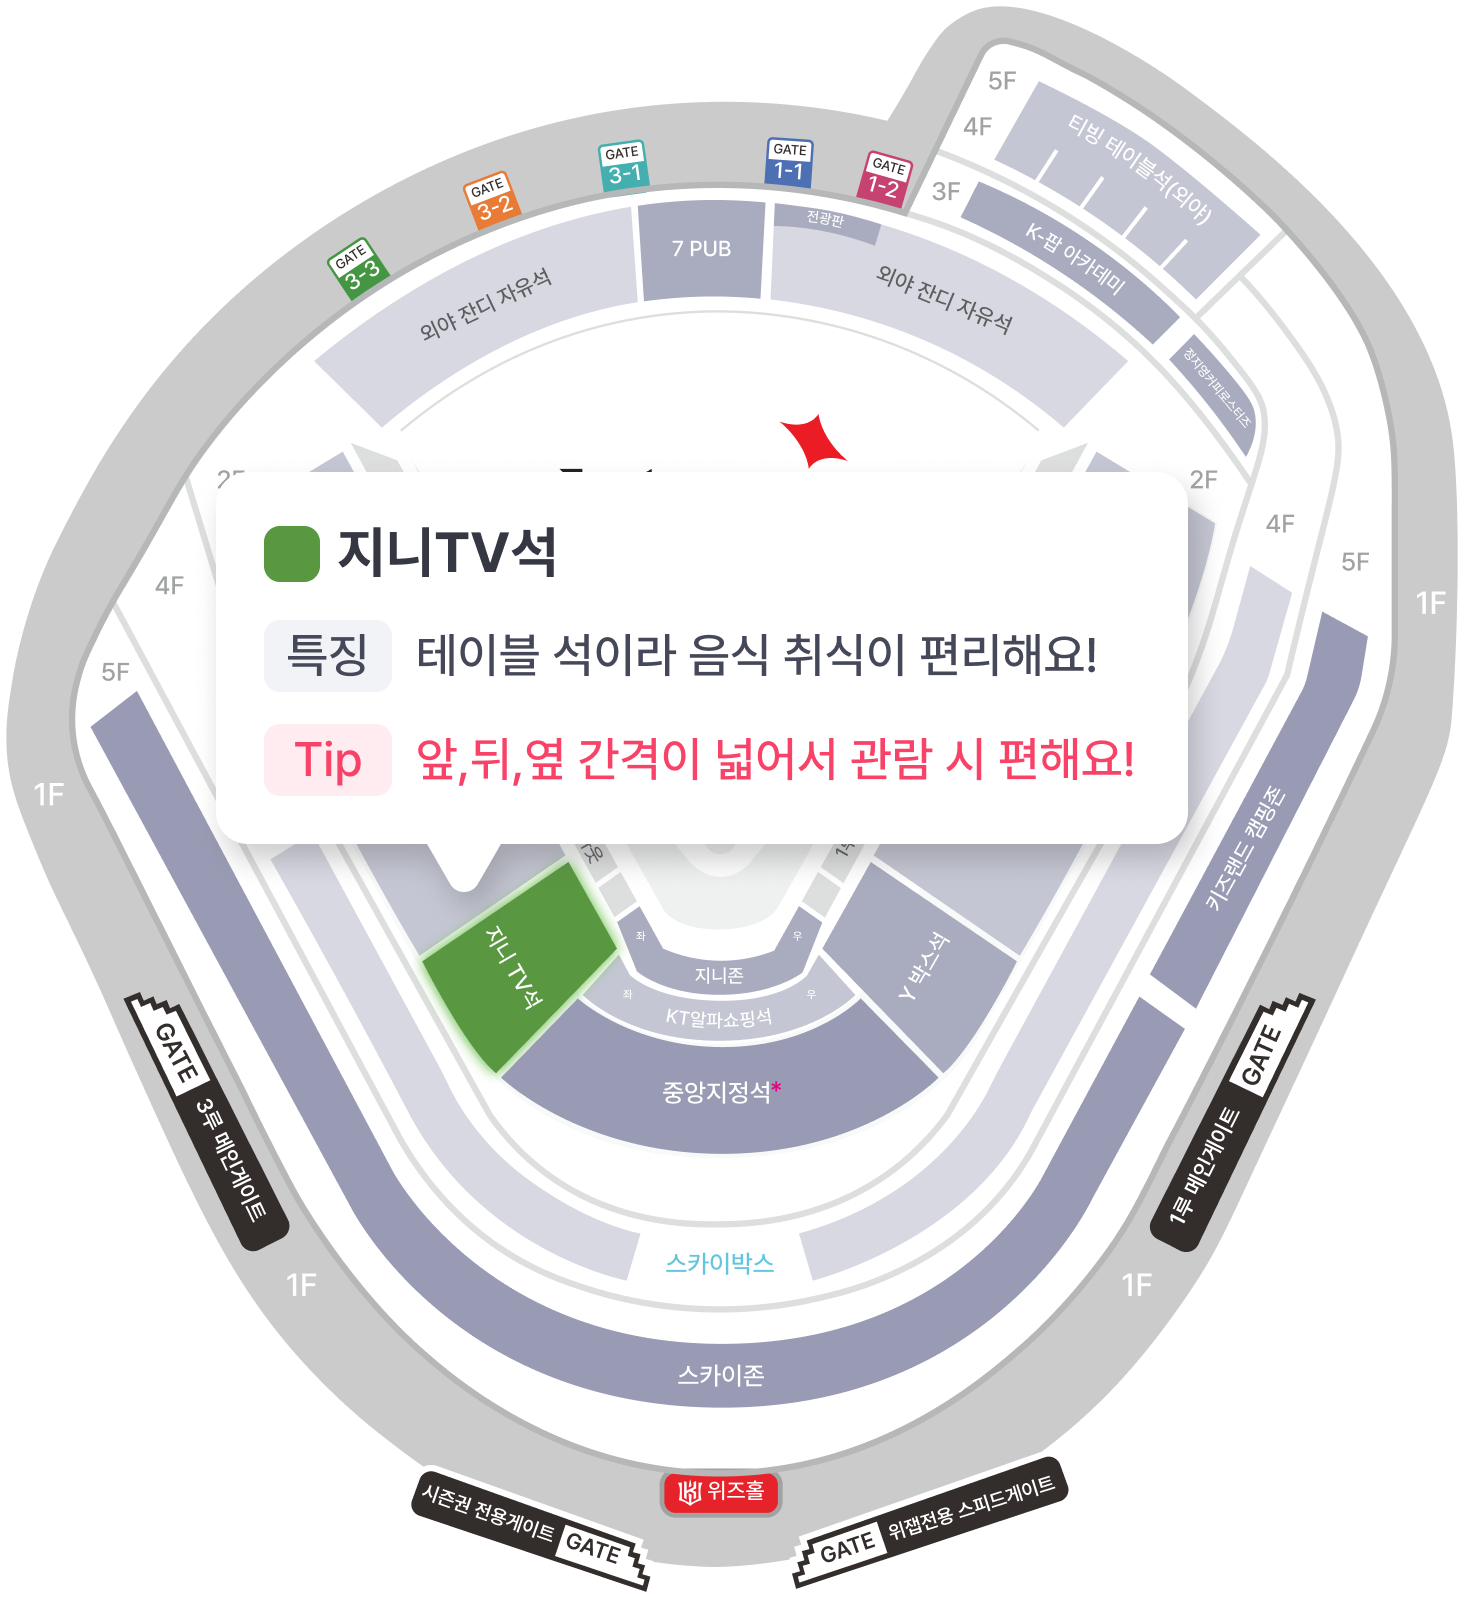
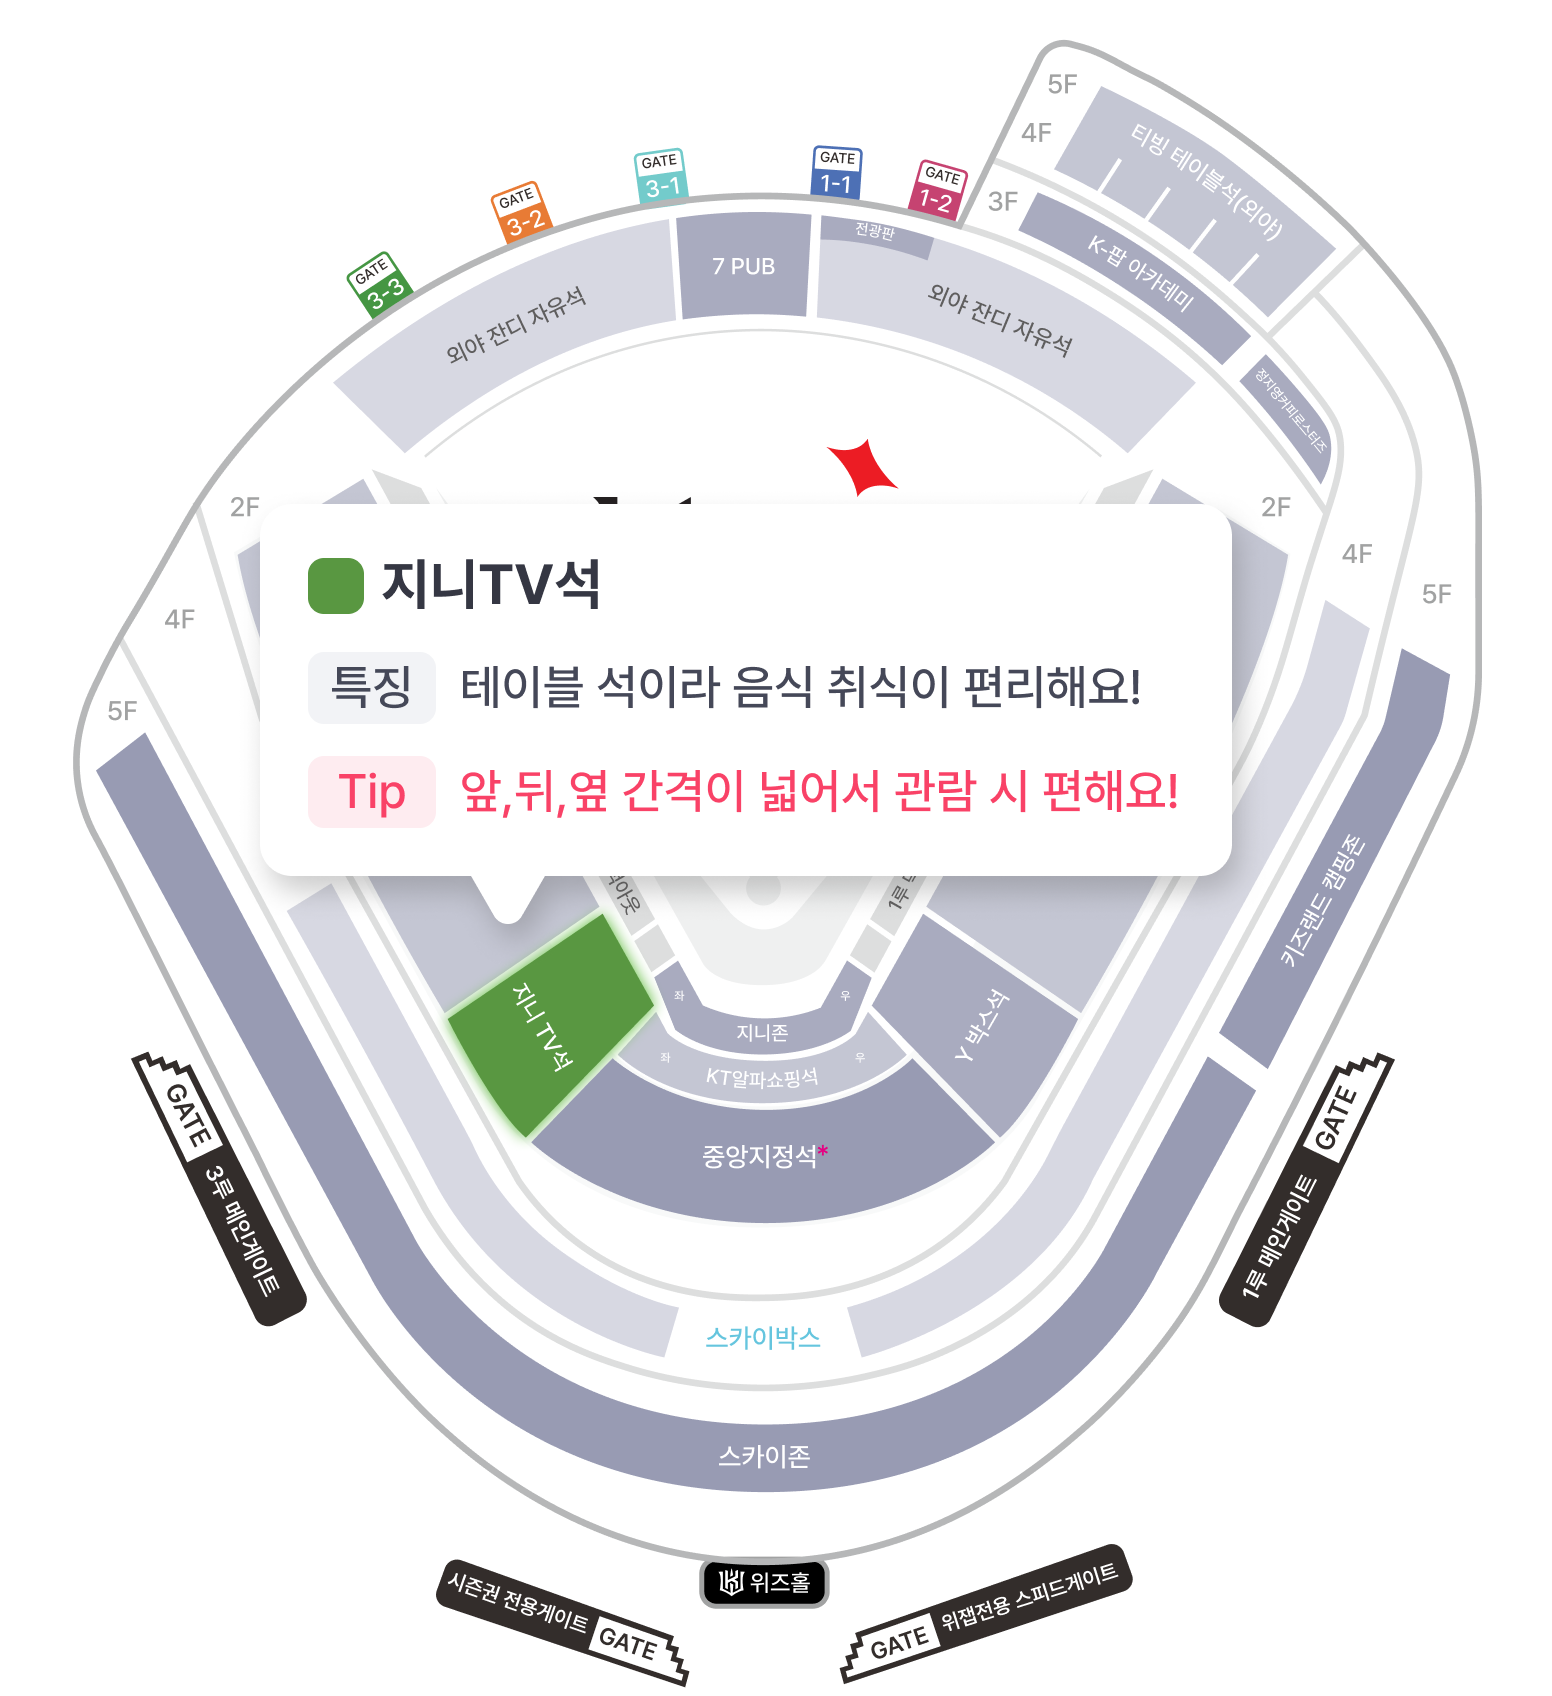
KT위즈파크 이미지 수정

diff --git a/src/pages/Main/components/KtwizSeat.tsx b/src/pages/Main/components/KtwizSeat.tsx
@@ -18,18 +18,18 @@ import tvingSeat from "../../../assets/webp/seat/kt_tving.webp";
 
 // 각 색상별 이미지와 오차값 포함
 const colorMap: { [key: string]: { image: StaticImageData; tolerance: number } } = {
-  "#B23039": { image: cheerSeat, tolerance: 2 },        // 빨간색 좌석: cheerSeat
-  "#65C5DE": { image: skySeat, tolerance: 20 },         // 하늘색 좌석: skySeat
-  "#292F46": { image: skyZoneSeat, tolerance: 20 },     // 남색 좌석: skyZoneSeat
-  "#008FD7": { image: kidsLandSeat, tolerance: 20 },    // 파랑 좌석: kidsLandSeat
-  "#5E346E": { image: centralSeat, tolerance: 20 },     // 보라색 좌석: centralSeat
-  "#599741": { image: genieTvSeat, tolerance: 10 },     // 녹색 좌석: genieTvSeat
-  "#F5A545": { image: yboxSeat, tolerance: 10 },        // 주황색 좌석: yboxSeat
-  "#E95560": { image: alphaShoppingSeat, tolerance: 5 }, // 핑크 좌석: alphaShoppingSeat
-  "#35659E": { image: genieZoneSeat, tolerance: 5 },    // 짙은 파랑 좌석: genieZoneSeat
-  "#3EA6A5": { image: excitingSeat, tolerance: 5 },     // 민트 좌석: excitingSeat
-  "#CEDA82": { image: outfieldSeat, tolerance: 20 },    // 연노랑 좌석: outfieldSeat
-  "#E3A3B1": { image: tvingSeat, tolerance: 5 },        // 연분홍 좌석: tvingSeat
+  "#B23039": { image: cheerSeat, tolerance: 5 },        // 빨간색 좌석: cheerSeat
+  "#65C5DE": { image: skySeat, tolerance: 15 },         // 하늘색 좌석: skySeat
+  "#292F46": { image: skyZoneSeat, tolerance: 25 },     // 남색 좌석: skyZoneSeat
+  "#008FD7": { image: kidsLandSeat, tolerance: 25 },    // 파랑 좌석: kidsLandSeat
+  "#5E346E": { image: centralSeat, tolerance: 25 },     // 보라색 좌석: centralSeat
+  "#599741": { image: genieTvSeat, tolerance: 15 },     // 녹색 좌석: genieTvSeat
+  "#F5A545": { image: yboxSeat, tolerance: 15 },        // 주황색 좌석: yboxSeat
+  "#E95560": { image: alphaShoppingSeat, tolerance: 15 }, // 핑크 좌석: alphaShoppingSeat
+  "#35659E": { image: genieZoneSeat, tolerance: 10 },    // 짙은 파랑 좌석: genieZoneSeat
+  "#3EA6A5": { image: excitingSeat, tolerance: 25 },     // 민트 좌석: excitingSeat
+  "#CEDA82": { image: outfieldSeat, tolerance: 25 },    // 연노랑 좌석: outfieldSeat
+  "#E3A3B1": { image: tvingSeat, tolerance: 10 },        // 연분홍 좌석: tvingSeat
 };
 
 // HEX 색상을 RGB로 변환하는 함수
@@ -69,8 +69,8 @@ const KtwizSeat = () => {
         const ctx = canvas.getContext("2d");
         const scale = window.devicePixelRatio || 1; // 화면 배율에 따라 픽셀 밀도 조절
 
-        const canvasWidth = 366;
-        const canvasHeight = 400;
+        const canvasWidth = 398;
+        const canvasHeight = 434;
         canvas.width = canvasWidth * scale;
         canvas.height = canvasHeight * scale;
 
@@ -138,10 +138,10 @@ const KtwizSeat = () => {
   };
 
   return (
-    <div className="flex justify-center mt-6" onClick={() => setSeatImage(defaultStadium)}>
+    <div className="flex justify-center" onClick={() => setSeatImage(defaultStadium)}>
       <canvas
         ref={canvasRef}
-        className="max-w-[366px] w-full mx-auto"
+        className="max-w-[398px] w-full mx-auto"
         onClick={handleCanvasClick}
       />
     </div>
